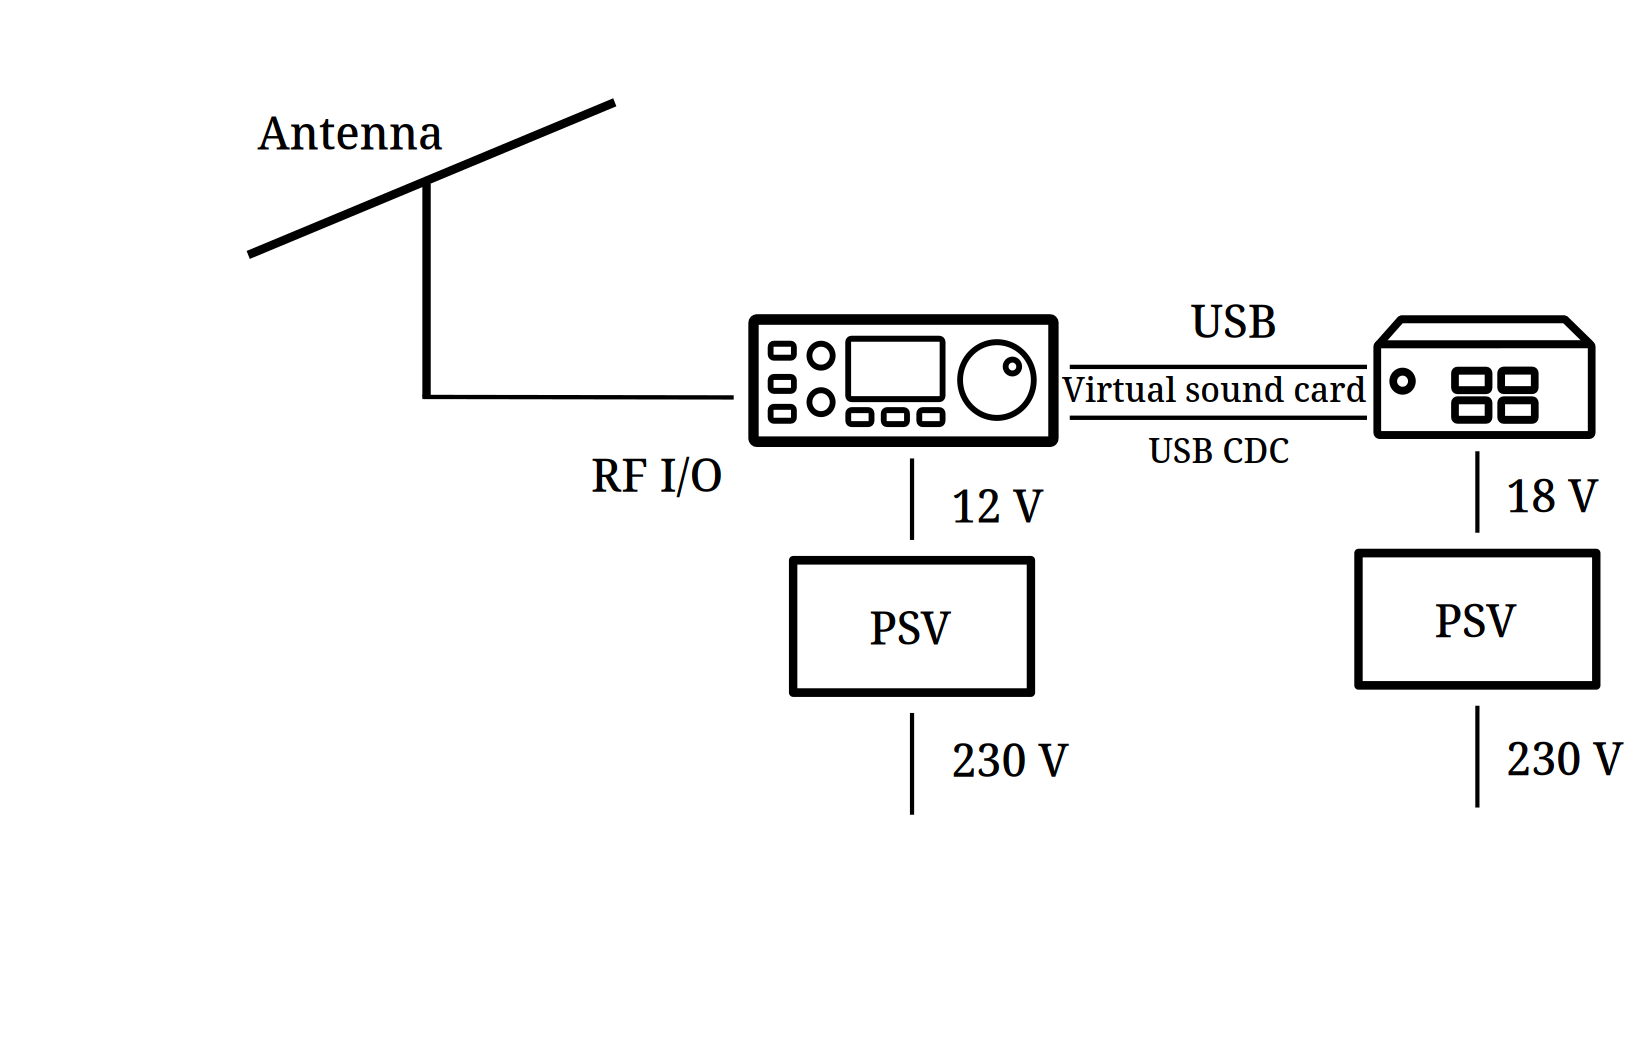
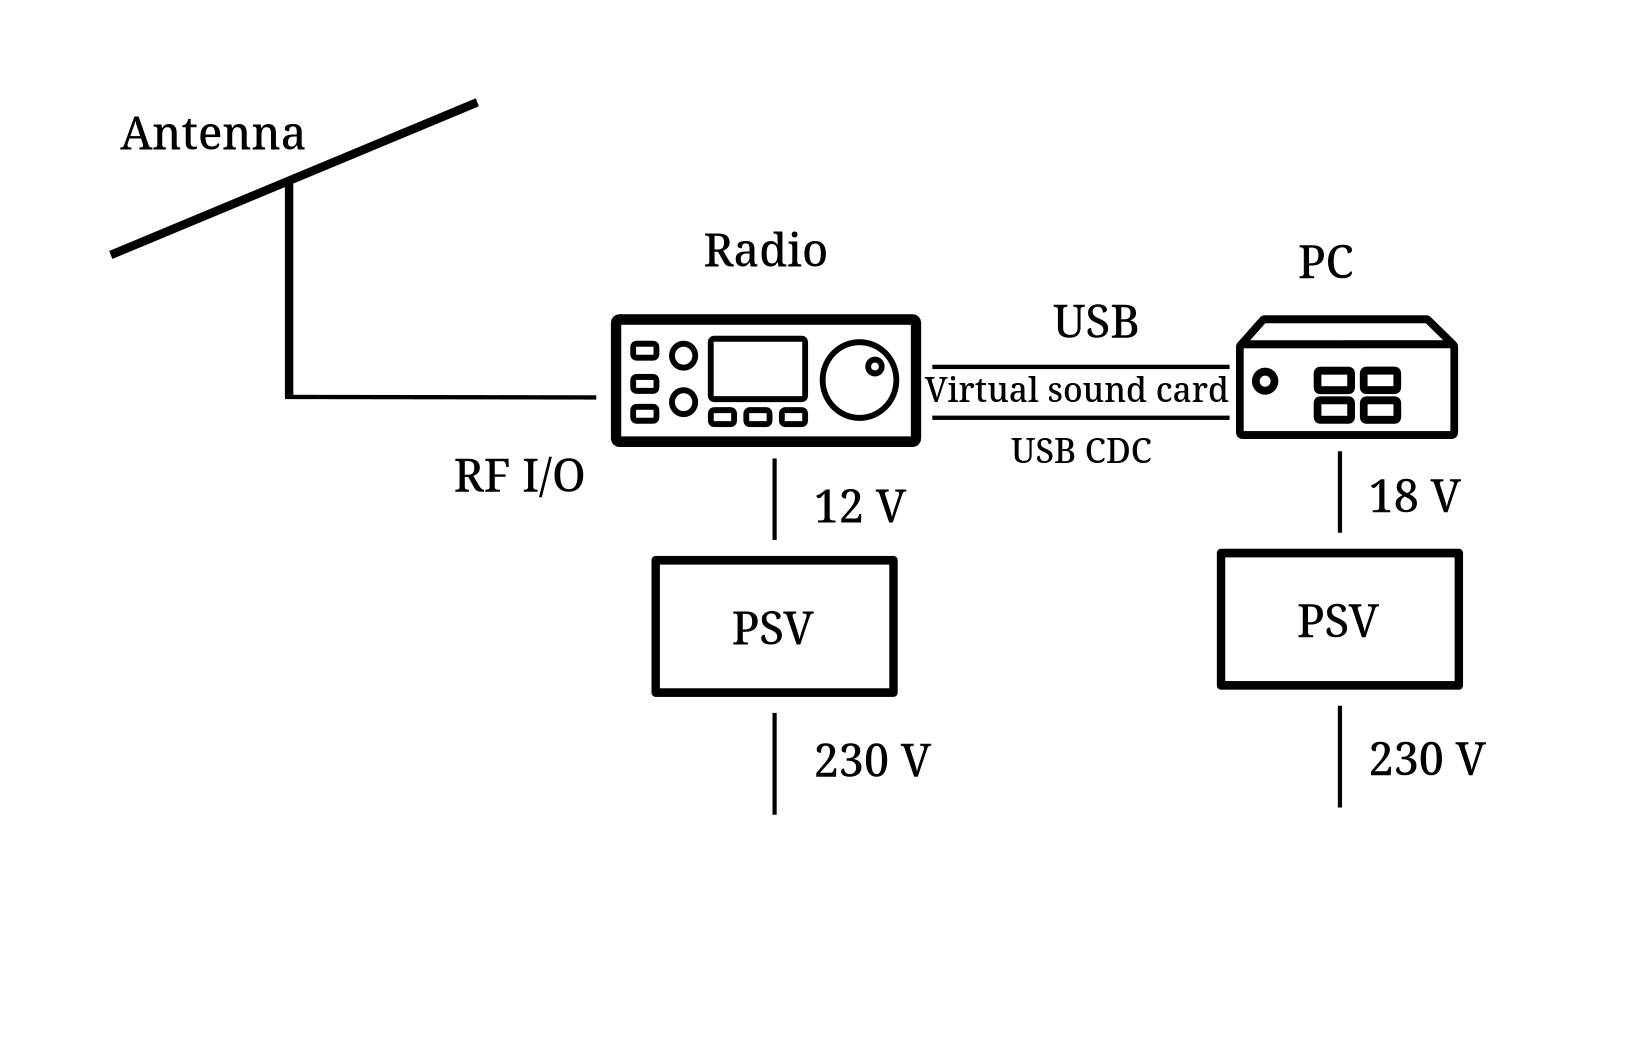
Proofreading

diff --git a/vakulya-signals2025-ft8.tex b/vakulya-signals2025-ft8.tex
@@ -406,7 +406,7 @@ WSJT-X generates several log files ALL.TXT containing all the decoded messages.
 
 The data collection system was continuously run for a year, from Jun 25 2024 to Jun 25 2025,
 decoding ang logging 30,819,847 messages. Since the system was not equipped with an
-uninterruptible power supply (UPS) unexpected power failures were occured, causing
+uninterruptible power supply (UPS) unexpected power failures occured, causing
 minor errors in the ALL.txt log file.
 Another source of errors is false decoding. Since FT8 is primarily designed for
 human operation, WSJT-X is intentionally configured to be highly
@@ -491,7 +491,7 @@ intervals, although such conditions may recur over several consecutive days.
 \begin{figure*}[bt]
 	\centering
 	\includegraphics[width=.9\textwidth]{fig/heatmap2.png}
-	\caption{2D histogram of the hourly distance distribution of the received messages between 2025 1st May - 11st May.}
+	\caption{2D histogram of the hourly distance distribution of the received messages between 2025 1st May and 11st May.}
 	\label{fig-heatmap2}
 \end{figure*}
 
